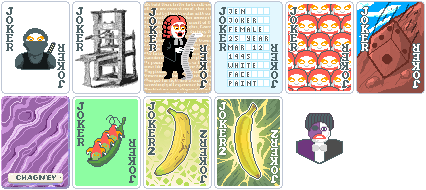
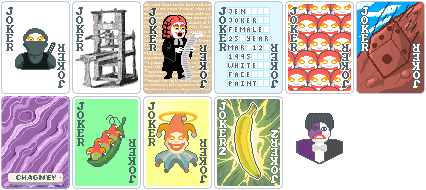
Added Ascension Joker

Changed region(s): [[0.3357, 0.5, 0.4883, 1.0]]

diff --git a/CREDITS.md b/CREDITS.md
@@ -9,9 +9,10 @@ Ideas:
  - unknownusergd: Student Loan Debt
  - /u/yellow-hammer: Filibuster
  - Dimoniosus: Rolling Stone
+ - memorialized_: Ascension
 
 Art:
  - Dimoniosus: Rolling Stone
  - OmnipotentEntity: Ninja, Template, Chimera, Census, Hivemind, Three Peas in a
-   Pod
+   Pod, Ascension
  - /u/yellow-hammer: Filibuster
